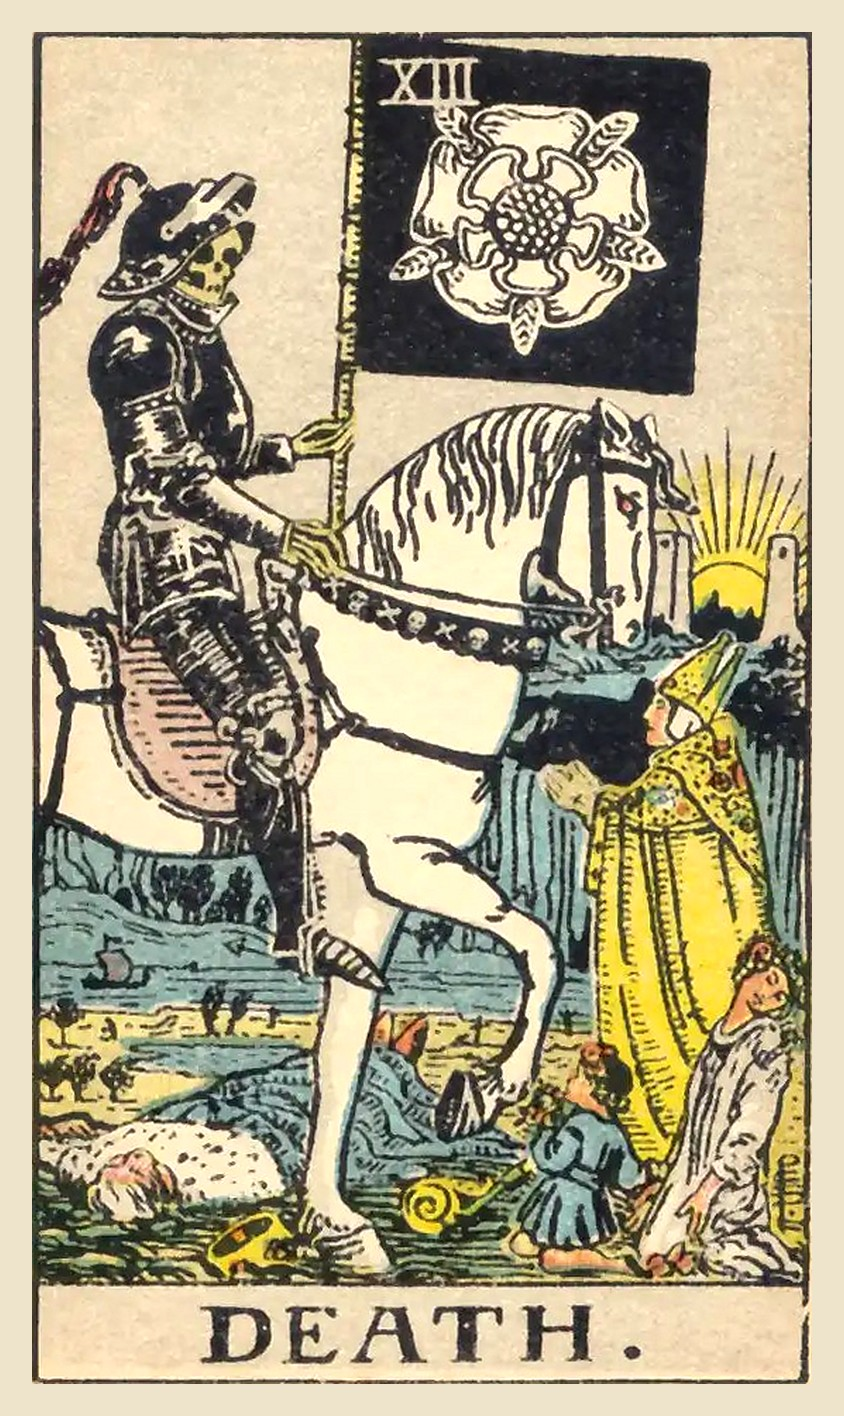
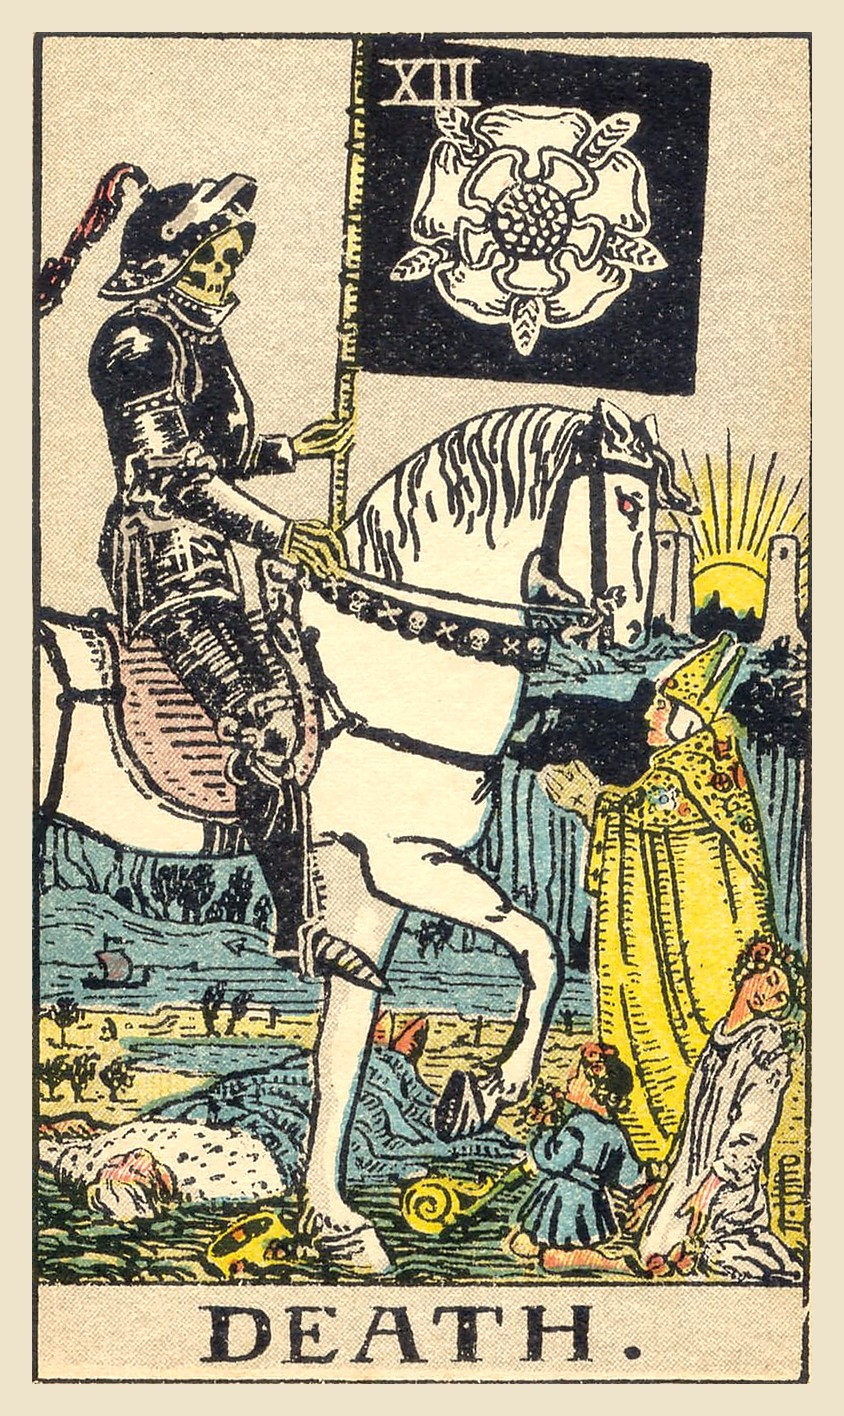
Upgrade Death and Temperance to full-size scans
Claude-Session: https://claude.ai/code/session_01VaK2LxMS9AmaPMg3JXPAQf

Changed region(s): [[0.0308, 0.0, 0.9858, 0.9944]]

diff --git a/content/tarot/images/CREDITS.md b/content/tarot/images/CREDITS.md
@@ -37,8 +37,8 @@ line on the card edge and must not be used.
 | Wheel of Fortune | `major-10-wheel-of-fortune.jpg` | [RWS1909 - 10 Wheel of Fortune.jpeg](https://commons.wikimedia.org/wiki/File:RWS1909_-_10_Wheel_of_Fortune.jpeg) | 1909 | Public domain | commons |
 | Justice | `major-11-justice.jpg` | [RWS1909 - 11 Justice.jpeg](https://commons.wikimedia.org/wiki/File:RWS1909_-_11_Justice.jpeg) | 1909 | Public domain | commons |
 | The Hanged Man | `major-12-the-hanged-man.jpg` | [RWS1909 - 12 Hanged Man.jpeg](https://commons.wikimedia.org/wiki/File:RWS1909_-_12_Hanged_Man.jpeg) | 1909 | Public domain | commons |
-| Death | `major-13-death.jpg` | [RWS1909 - 13 Death.jpeg](https://commons.wikimedia.org/wiki/File:RWS1909_-_13_Death.jpeg) | 1909 | Public domain | fallback |
-| Temperance | `major-14-temperance.jpg` | [RWS1909 - 14 Temperance.jpeg](https://commons.wikimedia.org/wiki/File:RWS1909_-_14_Temperance.jpeg) | 1909 | Public domain | fallback |
+| Death | `major-13-death.jpg` | [RWS1909 - 13 Death.jpeg](https://commons.wikimedia.org/wiki/File:RWS1909_-_13_Death.jpeg) | 1909 | Public domain | commons |
+| Temperance | `major-14-temperance.jpg` | [RWS1909 - 14 Temperance.jpeg](https://commons.wikimedia.org/wiki/File:RWS1909_-_14_Temperance.jpeg) | 1909 | Public domain | commons |
 | The Devil | `major-15-the-devil.jpg` | [RWS1909 - 15 Devil.jpeg](https://commons.wikimedia.org/wiki/File:RWS1909_-_15_Devil.jpeg) | 1909 | Public domain | fallback |
 | The Tower | `major-16-the-tower.jpg` | [RWS1909 - 16 Tower.jpeg](https://commons.wikimedia.org/wiki/File:RWS1909_-_16_Tower.jpeg) | 1909 | Public domain | fallback |
 | The Star | `major-17-the-star.jpg` | [RWS1909 - 17 Star.jpeg](https://commons.wikimedia.org/wiki/File:RWS1909_-_17_Star.jpeg) | 1909 | Public domain | fallback |
